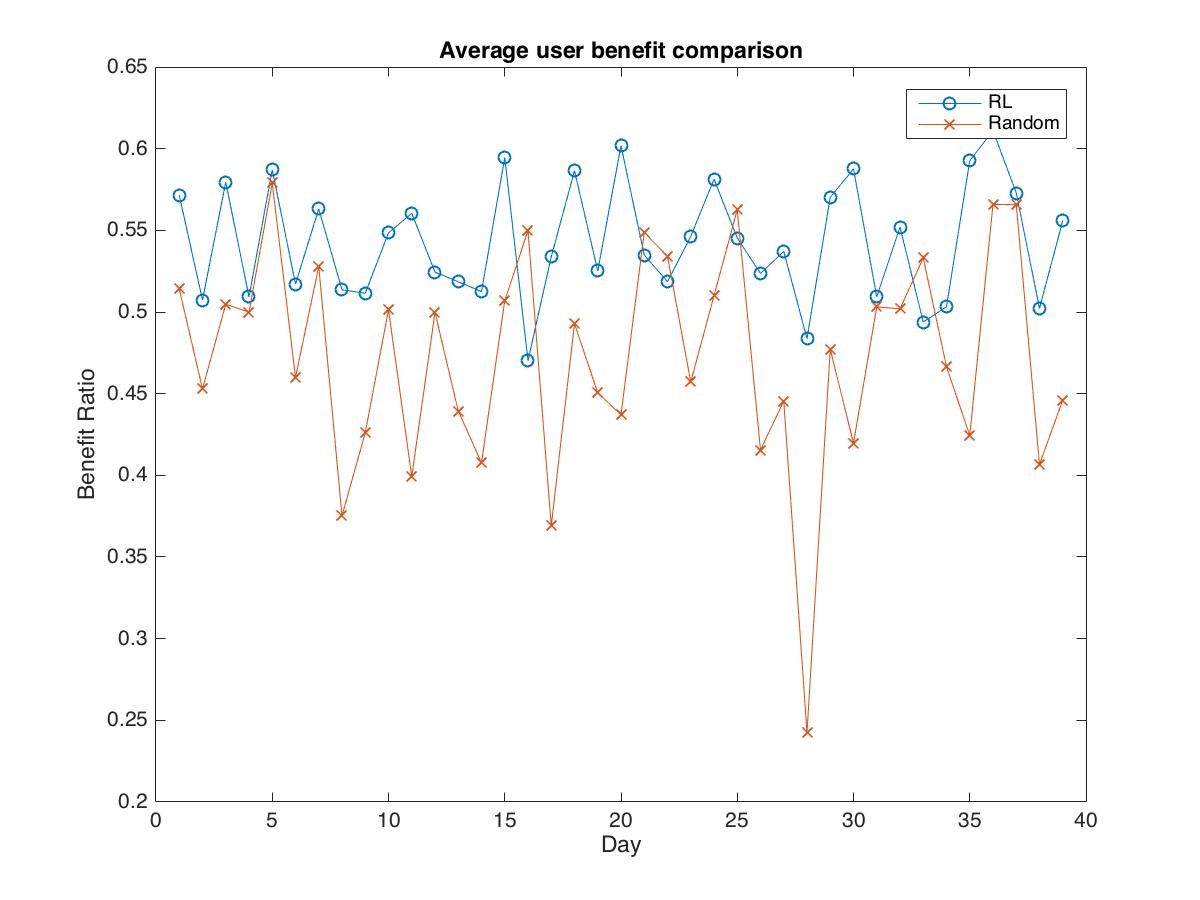
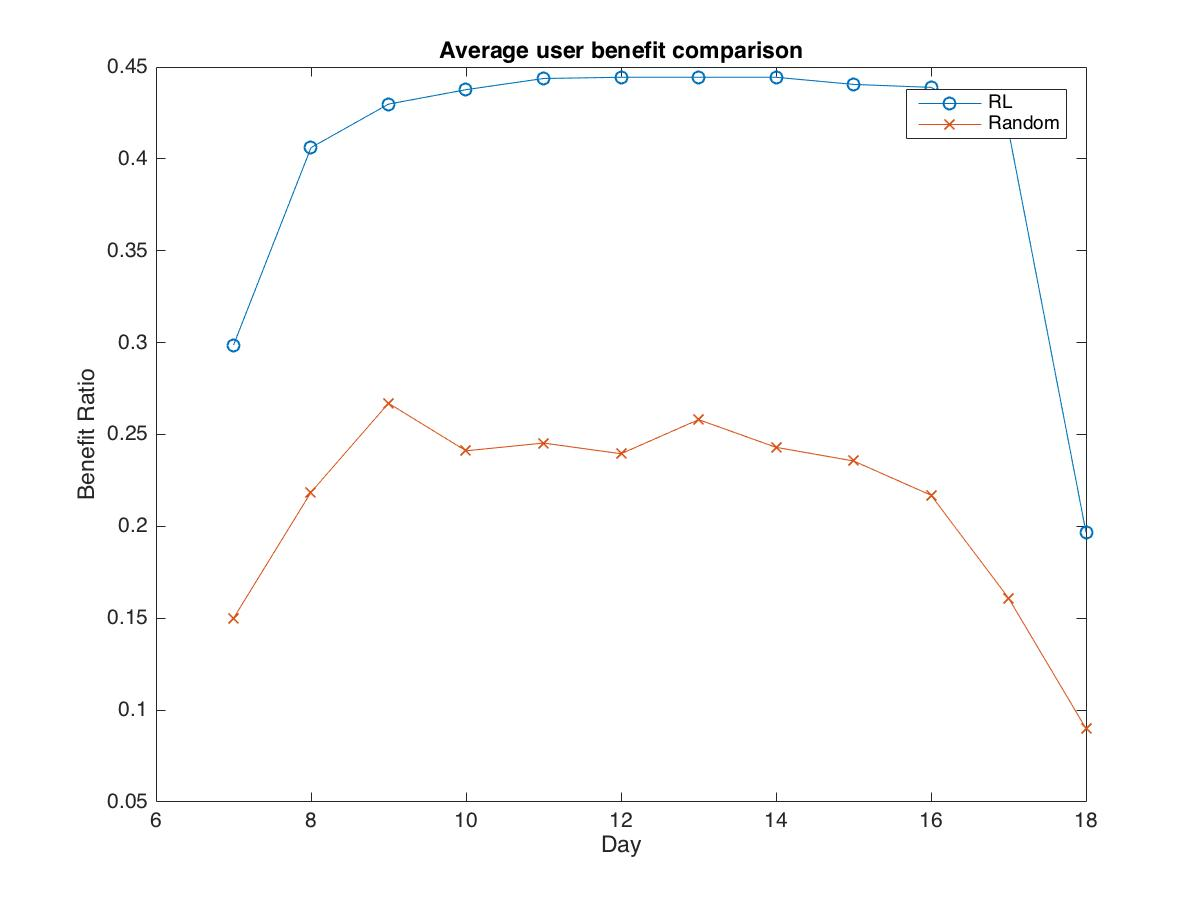
update

diff --git a/Code/train.m b/Code/train.m
@@ -18,7 +18,7 @@ buy_price = rand(1, buy_num)*5+2;
 % For supplier
 % Discretize the action space => quoted_price
 quoted_price_ub = 9;
-quoted_price_lb = 2;
+quoted_price_lb = 4;
 quoted_edges = quoted_price_lb:1:quoted_price_ub;
 supply_action_num = size(quoted_edges,2);
 
@@ -30,8 +30,8 @@ demand_state_num = size(demand_state_edges,2) - 1;
 
 % For User
 % Discretize the action space => buy_price
-buy_price_ub = 9;
-buy_price_lb = 2;
+buy_price_ub = 7;
+buy_price_lb = 3;
 buy_edges = buy_price_lb:1:buy_price_ub;
 user_action_num = size(buy_edges,2);
 
@@ -44,10 +44,11 @@ supply_state_num = size(supply_state_edges,2) - 1;
 % Maintain a Q-factor and setup the parameters for R-SMART learning
 sup_Q_factor = zeros(plant_num, demand_state_num, supply_action_num);
 usr_Q_factor = zeros(buy_num, supply_state_num, user_action_num);
-learning_rate = 0.01;
-beta = 0.001;
+% Best: lr = 0.001, beta=0.01
+lr = 0.001;
+beta = 0.01;
 eta = 0.99;
-ITERMAX = 100;
+ITERMAX = 10;
 
 % Total reward and average reward table
 sup_tr = zeros(plant_num, demand_state_num, supply_action_num);
@@ -92,7 +93,7 @@ for day = 1:day_num
                 %immi_reward = (x(j+buy_num)/(plants_data(compute_time, j)+0.00001))*(quoted_price(j)/quoted_price_ub);
                 immi_reward = x(j+buy_num)*quoted_price(j);
                 % Get quoted price -> action num
-                quoted_p = quoted_price(j) - 1;
+                quoted_p = quoted_price(j) - quoted_price_lb + 1;
                 % update total reward
                 sup_tr(j,dem_cur_state(j),quoted_p) = sup_tr(j,dem_cur_state(j),quoted_p) + immi_reward;  
                 % update weight matrix
@@ -102,14 +103,16 @@ for day = 1:day_num
                     + beta*(sup_tr(j,dem_cur_state(j),quoted_p)/sup_weight(j, dem_cur_state(j), quoted_p));
                 avg_reward = sup_ar(j,dem_cur_state(j),quoted_p);
                 % Update supply Q-factor
-                sup_Q_factor(j,dem_cur_state(j),quoted_p) = (1-learning_rate)*sup_Q_factor(j, dem_cur_state(j), quoted_p)+ ...
-                    learning_rate*(immi_reward - avg_reward + eta*(max(sup_Q_factor(j,dem_cur_state(j),:))));
+                %sup_Q_factor(j,dem_cur_state(j),quoted_p) = (1-lr)*sup_Q_factor(j, dem_cur_state(j), quoted_p)+ ...
+                %    lr*(immi_reward - avg_reward + eta*(max(sup_Q_factor(j,dem_cur_state(j),:))));
+                sup_Q_factor(j,dem_cur_state(j),quoted_p) = (1-lr)*sup_Q_factor(j, dem_cur_state(j), quoted_p)+ ...
+                    lr*(immi_reward + eta*(max(sup_Q_factor(j,dem_cur_state(j),:))));
             end
             % Update the reward of user
             for j = 1:buy_num
                 immi_reward = (x(j)/power_dem(compute_time, j))*(1-(buy_price(j)/buy_price_ub));
                 % Get quoted price -> action num
-                buy_p = buy_price(j) - 1;
+                buy_p = buy_price(j) - buy_price_lb + 1;
                 % update total reward
                 usr_tr(j,sup_cur_state(j),buy_p) = usr_tr(j,sup_cur_state(j),buy_p) + immi_reward;  
                 % update weight matrix
@@ -119,8 +122,10 @@ for day = 1:day_num
                     + beta*(usr_tr(j,sup_cur_state(j),buy_p)/usr_weight(j, sup_cur_state(j), buy_p));
                 avg_reward = usr_ar(j,sup_cur_state(j),buy_p);
                 % Update user Q-factor
-                usr_Q_factor(j,sup_cur_state(j),buy_p) = (1-learning_rate)*usr_Q_factor(j, sup_cur_state(j),buy_p)+ ...
-                    learning_rate*(immi_reward - avg_reward + eta*(max(usr_Q_factor(j,sup_cur_state(j),:))));
+                %usr_Q_factor(j,sup_cur_state(j),buy_p) = (1-lr)*usr_Q_factor(j, sup_cur_state(j),buy_p)+ ...
+                %    lr*(immi_reward - avg_reward + eta*(max(usr_Q_factor(j,sup_cur_state(j),:))));
+                usr_Q_factor(j,sup_cur_state(j),buy_p) = (1-lr)*usr_Q_factor(j, sup_cur_state(j),buy_p)+ ...
+                    lr*(immi_reward + eta*(max(usr_Q_factor(j,sup_cur_state(j),:))));
             end
         end
     end

diff --git a/Code/draw_result.m b/Code/draw_result.m
@@ -1,10 +1,9 @@
-function draw_result(Result, day_num)
+function draw_result(Result, day_num, SAVE_FLAG)
 % Description:
 %   This is function for plotting the result.
 %   Author: Chan-Wei Hu
 %=========================================================================
 output_dir = '../Result/';
-SAVE_FLAG = 1;
 
 % Plot the supplier quoted price difference 
 % Reshape it first : [day_num*hour_intv, plant_num] -> [day_num, hour_intv, plant_num]
@@ -98,13 +97,18 @@ xlabel('Day');
 if SAVE_FLAG
     saveas(gcf, strcat(output_dir, 'Average_supplier_benefit.jpg'));
 end
+hour_avg_RL = sum(sup_RL.*sup_avg_p_RL)/length(hour_intv);
+hour_avg_random = sum(sup_Random.*sup_avg_p_Random)/length(hour_intv);
+fprintf('Supplier benefit improves %.2f%% than Random\n', ...
+    ((hour_avg_RL - hour_avg_random)/hour_avg_random)*100);
 
 % Plot supplier average benefit of RL vs Random 
 figure();
+usr_ideal = squeeze(sum(sum(Result.usr_ideal_need,1)/day_num, 3));
 usr_RL = squeeze(sum(sum(Result.usr_actual_get_RL,1)/day_num,3));
 usr_Random = squeeze(sum(sum(Result.usr_actual_get_Random,1)/day_num,3));
-plot(hour_intv,  usr_RL.*(1-usr_avg_p_RL/9), '-o', ...
-       hour_intv,  usr_Random.*(1-usr_avg_p_Random/9), '-x');
+plot(hour_intv,  (usr_RL./usr_ideal).*(1-usr_avg_p_RL/9), '-o', ...
+       hour_intv,  (usr_Random./usr_ideal).*(1-usr_avg_p_Random/9), '-x');
 legend('RL', 'Random');
 title('Average user benefit comparison');
 ylabel('Benefit Ratio');
@@ -112,5 +116,9 @@ xlabel('Day');
 if SAVE_FLAG
     saveas(gcf, strcat(output_dir, 'Average_user_benefit.jpg'));
 end
+hour_avg_RL = sum((usr_RL./usr_ideal).*(1-usr_avg_p_RL/9))/length(hour_intv);
+hour_avg_random = sum((usr_Random./usr_ideal).*(1-usr_avg_p_Random/9))/length(hour_intv);
+fprintf('User benefit improves %.2f%% than Random\n', ...
+    ((hour_avg_RL - hour_avg_random)/hour_avg_random)*100);
 
 end

diff --git a/Code/test.m b/Code/test.m
@@ -17,7 +17,7 @@ buy_price = rand(1, buy_num)*5;
 % For supplier
 % Discretize the action space => quoted_price
 quoted_price_ub = 9;
-quoted_price_lb = 2;
+quoted_price_lb = 4;
 quoted_edges = quoted_price_lb:1:quoted_price_ub;
 supply_action_num = size(quoted_edges,2);
 
@@ -29,8 +29,8 @@ demand_state_num = size(demand_state_edges,2) - 1;
 
 % For User
 % Discretize the action space => buy_price
-buy_price_ub = 9;
-buy_price_lb = 2;
+buy_price_ub = 7;
+buy_price_lb = 3;
 buy_edges = buy_price_lb:1:buy_price_ub;
 user_action_num = size(buy_edges,2);
 
@@ -75,13 +75,13 @@ for day = 1:day_num
                     % Get the index of the max Q-value in current state, that is
                     % the price to quote
                     [~, quoted_price(i)] = max(sup_Q_factor(i, sup_cur_state(i), :));
-                    quoted_price(i) = quoted_price(i)+1;
+                    quoted_price(i) = quoted_price(i)+quoted_price_lb-1;
                 end
                 % Get user current state
                 usr_cur_state = discretize(power_dem(compute_time, :), supply_state_edges);
                 for i = 1:buy_num
                     [~, buy_price(i)] = max(usr_Q_factor(i, usr_cur_state(i), :)); 
-                    buy_price(i) = buy_price(i)+1;
+                    buy_price(i) = buy_price(i)+buy_price_lb-1;
                 end
                 
                 % Store the price into result
@@ -115,5 +115,5 @@ for day = 1:day_num
 end
 
 % Draw the result
-draw_result(Result, day_num);
+draw_result(Result, day_num, 0);
 fprintf('Testing time: %.2f sec\n', etime(clock, start_time));

diff --git a/Code/price_map.m b/Code/price_map.m
@@ -1,0 +1,3 @@
+function price_map(price_ub, price_lb, state_num)
+
+end
